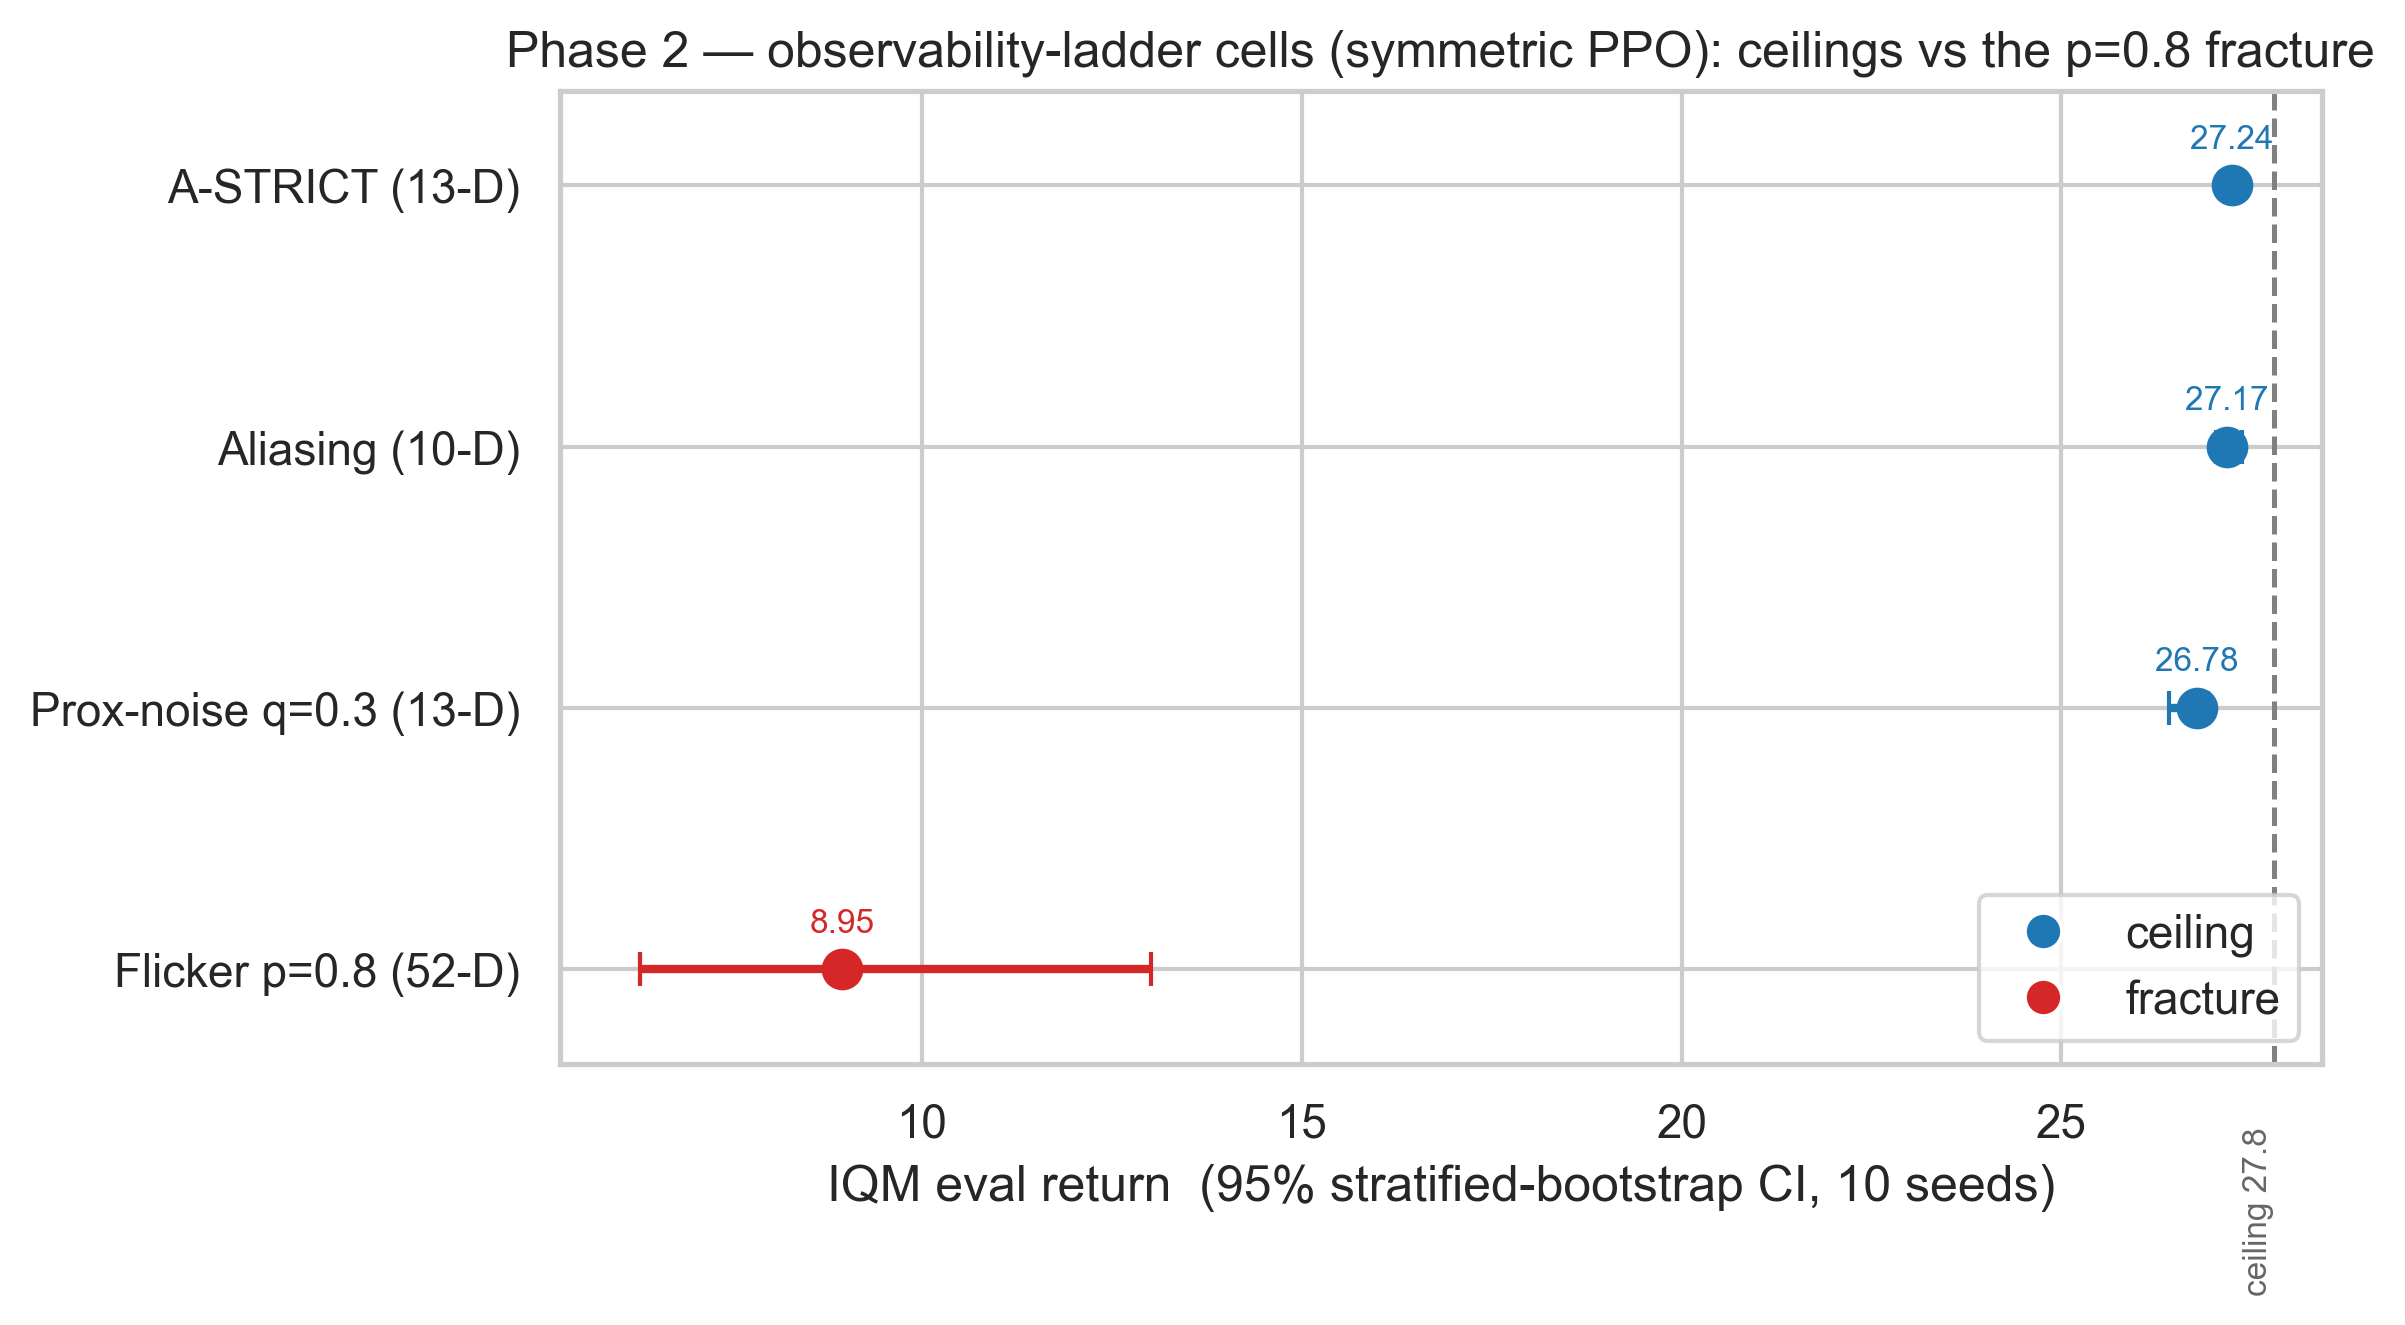
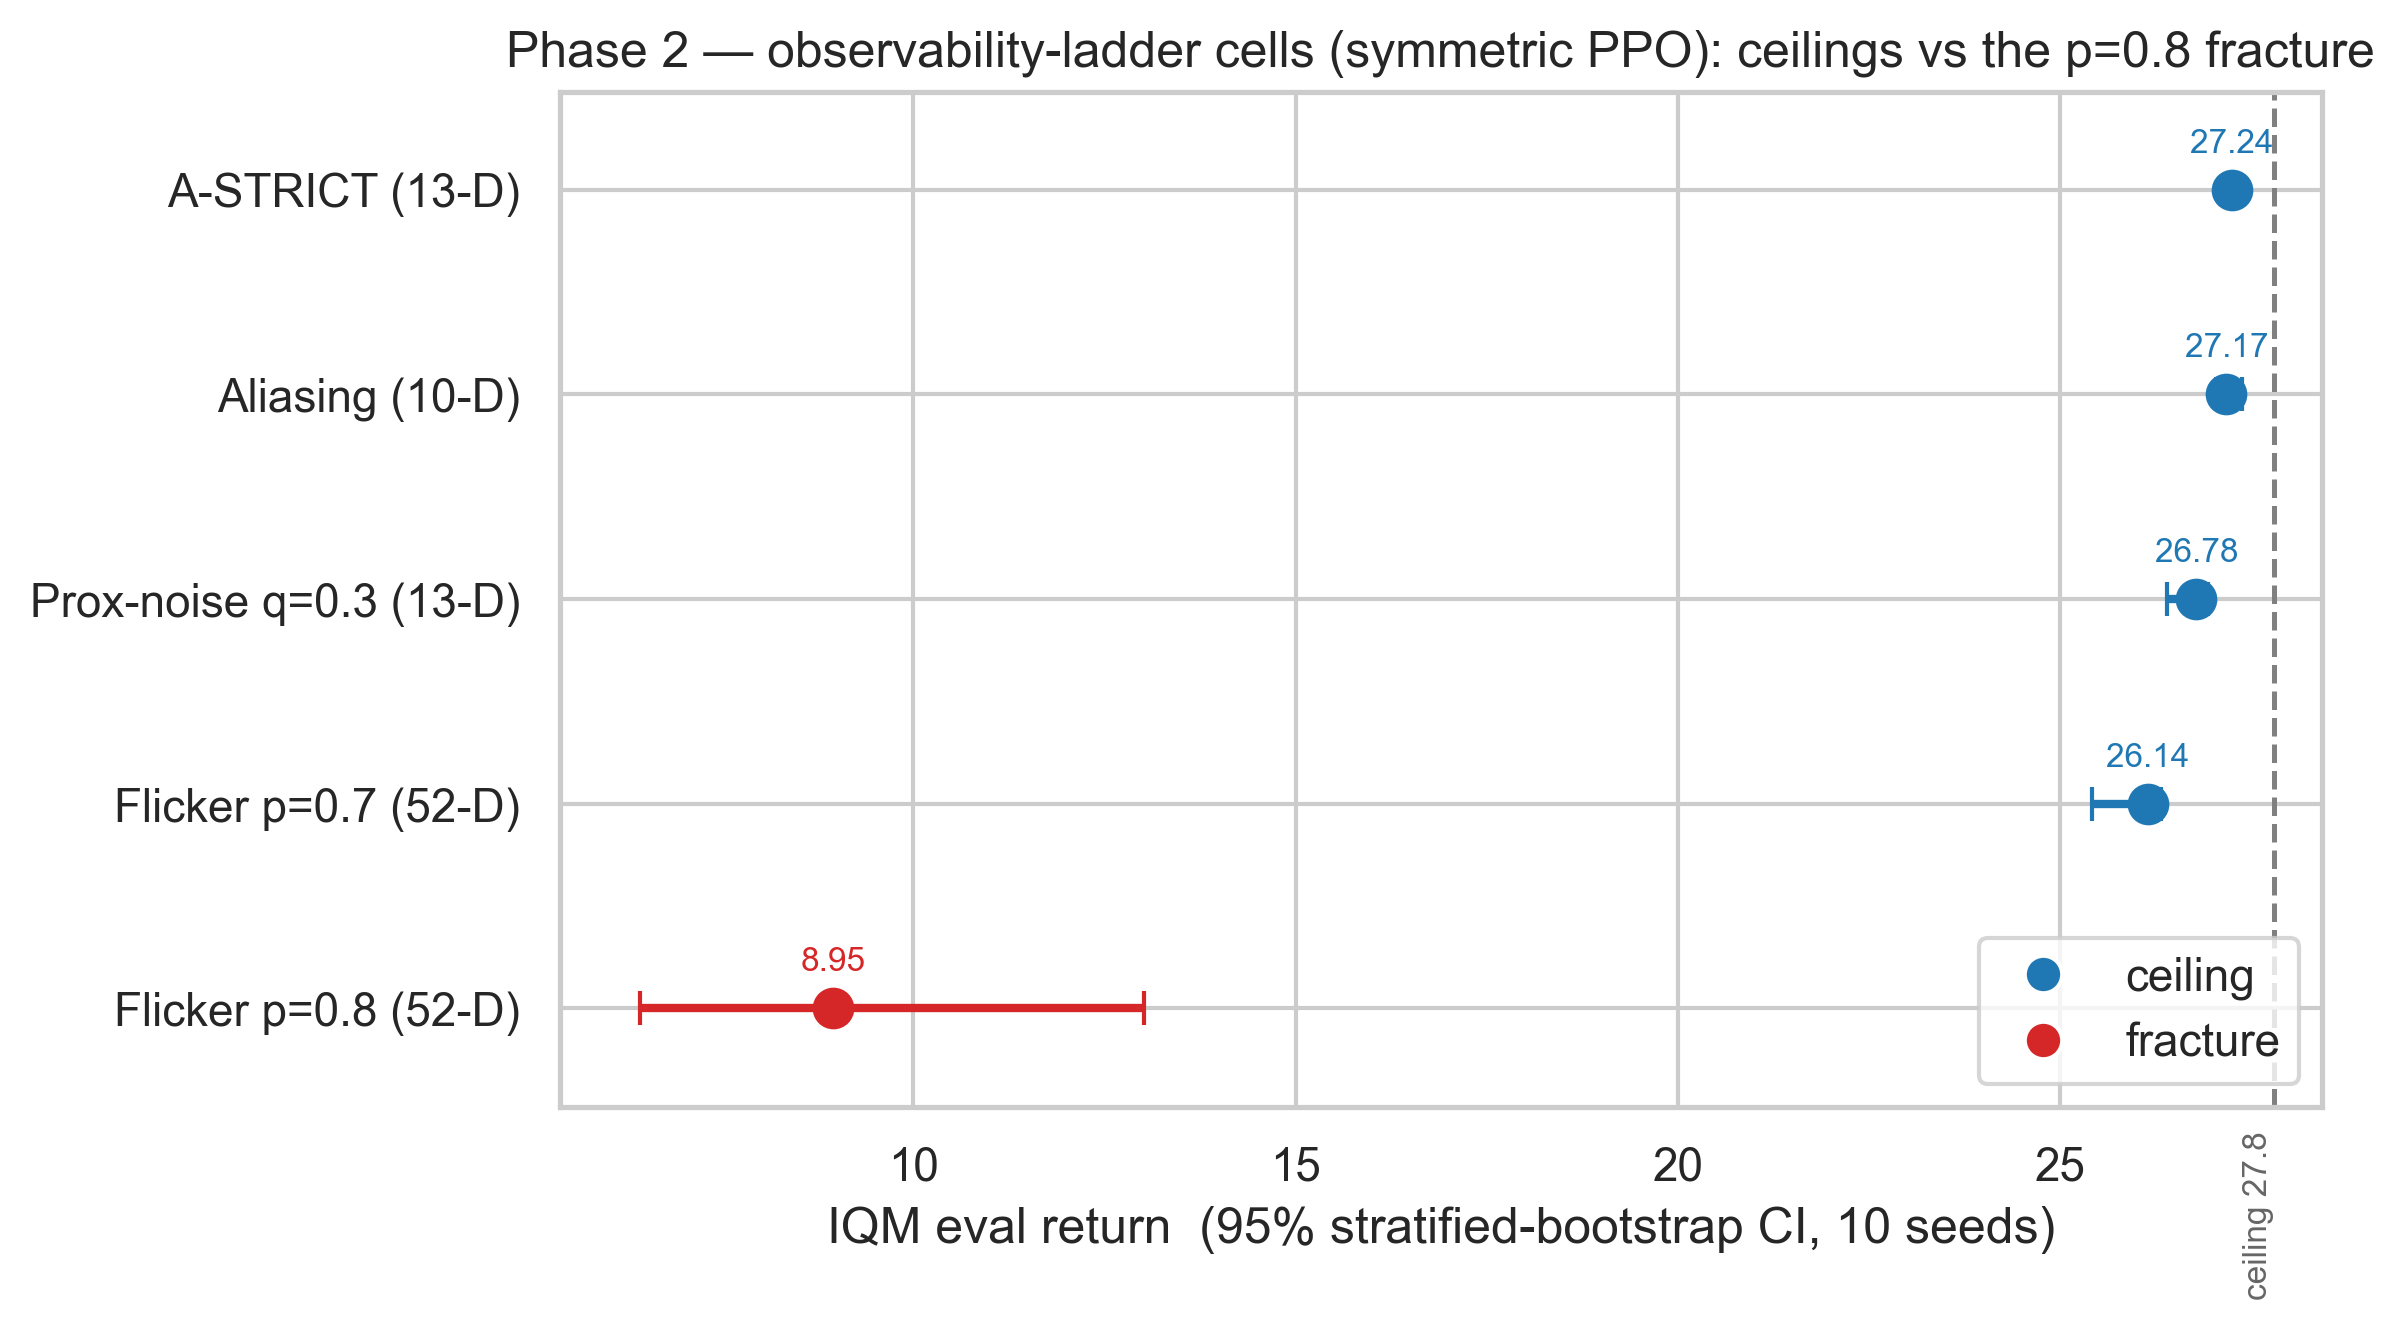
Phase 2: cell 5 (p=0.7 flicker) claim-grade - ceilings, completes the dose-response
10 seeds x 500k: IQM 26.14 [25.42, 26.32], 9/10 seeds at full success on all three
rooms (seed 9 partial, trimmed by IQM). Confirms the single-seed 500k gate: p=0.7 is
slow-easy (flicker path-tax ~1.6 below the 27.8 ceiling, not sub-ceiling difficulty).
Flicker dose-response now claim-grade on both sides: ceilings at p=0.7, fractures at
p=0.8 -- no intermediate hard-but-learnable band. Ladder figure regenerated (5 cells).

diff --git a/docs/results_log.md b/docs/results_log.md
@@ -202,15 +202,16 @@ Convergence curve (IQM | success | k/bed/bath | **coll** @ 100k/200k/300k/400k/5
 - **Date:** 2026-07-04
 - **Owner:** Samuel
 - **Status:** **CLAIM-GRADE (P2-MS) — 10 seeds, frozen MAIN_SEEDS, rliable IQM+95% CI.** These are the reportable Phase 2 results; the single-seed §5 gates above stay in the record as *design decisions*, not results.
-- **Provenance — LOCAL-DECISION-GRADE (not yet archival):** this batch was run **locally in Claude Code, CPU, `--wandb-mode disabled`** (no W&B run). These numbers are trustworthy enough to *make decisions on and draft against* (frozen seeds, deterministic, committed CSVs). The **pre-submission archival-verification step** is a Colab re-run of the identical configs — `python -m Training.run_phase2_sweep --output-dir /content/drive/MyDrive/arch-ablations --wandb-mode online` (`--include-hold` for cell 5) — which, on the same frozen `MAIN_SEEDS`, must reproduce these numbers and produces the W&B-logged, Drive-archived copies of record. **The paper's final tables cite the archival Colab run; until then these are local-decision-grade.** (Same applies to the p=0.7 cell 5 once its local run lands.)
-- **Config(s):** `configs/p2_{strict,alias,flicker08,proxnoise}_sym.yaml` — SYMMETRIC `[256,256]`, Exp 1 verbatim; only obs-wrapper differs. Symmetric-only = a statement about the TASK (ceiling/fracture for a standard agent), not an architecture comparison.
-- **Raw per-seed CSVs:** `results/csv/p2_{strict,alias,flicker08,proxnoise}_sym.csv`.
-- **Generated by:** `Training/run_phase2_sweep.py` (40-run batch).
+- **Provenance — LOCAL-DECISION-GRADE (not yet archival):** this batch was run **locally in Claude Code, CPU, `--wandb-mode disabled`** (no W&B run). These numbers are trustworthy enough to *make decisions on and draft against* (frozen seeds, deterministic, committed CSVs). The **pre-submission archival-verification step** is a Colab re-run of the identical configs — `python -m Training.run_phase2_sweep --output-dir /content/drive/MyDrive/arch-ablations --wandb-mode online` (`--include-hold` for cell 5) — which, on the same frozen `MAIN_SEEDS`, must reproduce these numbers and produces the W&B-logged, Drive-archived copies of record. **The paper's final tables cite the archival Colab run; until then these are local-decision-grade.** (Includes the p=0.7 cell 5, now landed — same local-decision-grade status, same Colab archival step pending.)
+- **Config(s):** `configs/p2_{strict,alias,flicker07,flicker08,proxnoise}_sym.yaml` — SYMMETRIC `[256,256]`, Exp 1 verbatim; only obs-wrapper differs. Symmetric-only = a statement about the TASK (ceiling/fracture for a standard agent), not an architecture comparison.
+- **Raw per-seed CSVs:** `results/csv/p2_{strict,alias,flicker07,flicker08,proxnoise}_sym.csv`.
+- **Generated by:** `Training/run_phase2_sweep.py` (40-run batch + cell 5 = `p2_flicker07_sym`, 500k×10, `--include-hold`).
 
 | Cell | obs | env_steps | IQM eval return (95% CI) | success | collision | per-room SR (k/bed/bath) | classification |
 |---|---|---|---|---|---|---|---|
 | A-STRICT | 13-D | 200k | **27.24 [27.21, 27.27]** | 1.00 | 0.00 | 1.00 / 1.00 / 1.00 | **ceiling** |
 | Aliasing | 10-D | 200k | **27.17 [27.04, 27.37]** | 1.00 | 0.00 | 1.00 / 1.00 / 1.00 | **ceiling** |
+| Flicker p=0.7 | 52-D | 500k | **26.14 [25.42, 26.32]** | 0.99 | 0.01 | 1.00 / 1.00 / 1.00 | **ceiling (slow; 9/10 seeds full)** |
 | Flicker p=0.8 | 52-D | 200k | **8.95 [6.29, 13.01]** | 0.60 | 0.04 | **0.00 / 1.00 / 0.33** | **fracture** |
 | Prox-noise q=0.3 | 13-D | 200k | **26.78 [26.41, 26.93]** | 1.00 | 0.00 | 1.00 / 1.00 / 1.00 | **ceiling (not collision-floor)** |
 
@@ -229,7 +230,7 @@ Convergence curve (IQM | success | k/bed/bath | **coll** @ 100k/200k/300k/400k/5
 | 8 | 0.53 | 0.00 | 0.47 | 80.0 | 0.00 / 1.00 / 0.00 |
 | 9 | 0.53 | 0.00 | 0.47 | 75.9 | 0.00 / 1.00 / 0.00 |
 
-**Interpretation.** Every single-seed gate classification **survives multi-seed**. (1) The three ceiling cells (A-STRICT, aliasing, prox-noise) are at the ceiling with 100% success on all three rooms and **tight CIs** (widths 0.06 / 0.33 / 0.52) — no seed dips; degrading the observation this way leaves the policy trivially solvable. Prox-noise's collision rate is 0.00, confirming *ceiling*, not a wall-avoidance floor. (2) The **flicker p=0.8 fracture is robust across all 10 seeds**: IQM 8.95 with a CI [6.29, 13.01] nowhere near the ~27.8 ceiling, and the per-seed split shows a **systematic near/far give-up** — **kitchen is abandoned in 10/10 seeds (SR 0.00 every seed)** while **bedroom is solved in 10/10 (SR 1.00 every seed)**; bathroom is the only variable room. Failures are **timeouts (0.13–0.47), not collisions (mostly 0.00)** — the agent wanders/gives up under heavy flicker rather than dying, i.e. a policy give-up local optimum, exactly as the gate showed. So the §5 table is **claim-grade solid**: no observation degradation yields a hard-but-learnable regime; degradation either ceilings (redundant/reactive/memorisable) or fractures into give-up — never the clean partial-competence the H1 test needs.
+**Interpretation.** Every single-seed gate classification **survives multi-seed**. (1) The three ceiling cells (A-STRICT, aliasing, prox-noise) are at the ceiling with 100% success on all three rooms and **tight CIs** (widths 0.06 / 0.33 / 0.52) — no seed dips; degrading the observation this way leaves the policy trivially solvable. Prox-noise's collision rate is 0.00, confirming *ceiling*, not a wall-avoidance floor. (2) The **flicker p=0.8 fracture is robust across all 10 seeds**: IQM 8.95 with a CI [6.29, 13.01] nowhere near the ~27.8 ceiling, and the per-seed split shows a **systematic near/far give-up** — **kitchen is abandoned in 10/10 seeds (SR 0.00 every seed)** while **bedroom is solved in 10/10 (SR 1.00 every seed)**; bathroom is the only variable room. Failures are **timeouts (0.13–0.47), not collisions (mostly 0.00)** — the agent wanders/gives up under heavy flicker rather than dying, i.e. a policy give-up local optimum, exactly as the gate showed. (3) The **flicker dose-response is now claim-grade on both sides**: at **p=0.7 (500k, 10 seeds)** symmetric PPO ceilings — IQM **26.14 [25.42, 26.32]**, with **9/10 seeds at full success on all three rooms** (only seed 9 partial: bathroom 0.33, trimmed by IQM); the ~1.6 gap below 27.8 is the flicker path-tax (ep_len ~20 vs 14.8), not sub-ceiling difficulty. So flicker **ceilings even at its hardest-that-still-learns (p=0.7) and fractures at p=0.8** — there is no intermediate hard-but-learnable band. So the §5 table is **claim-grade solid**: no observation degradation yields a hard-but-learnable regime; degradation either ceilings (redundant/reactive/memorisable) or fractures into give-up — never the clean partial-competence the H1 test needs.
 
 **Caveats / known issues.** Local CPU, W&B-disabled (CSVs are the artifact; reproduce on Colab with the same seeds for W&B-logged copies). Per-room SR from 15 eval eps/seed (target drawn by env RNG; the coarse 0.33/0.67 values are 5-episode granularity). Flicker p=0.7 (the slow-ceiling flicker anchor) is NOT yet multi-seed — see the held cell decision.
 
